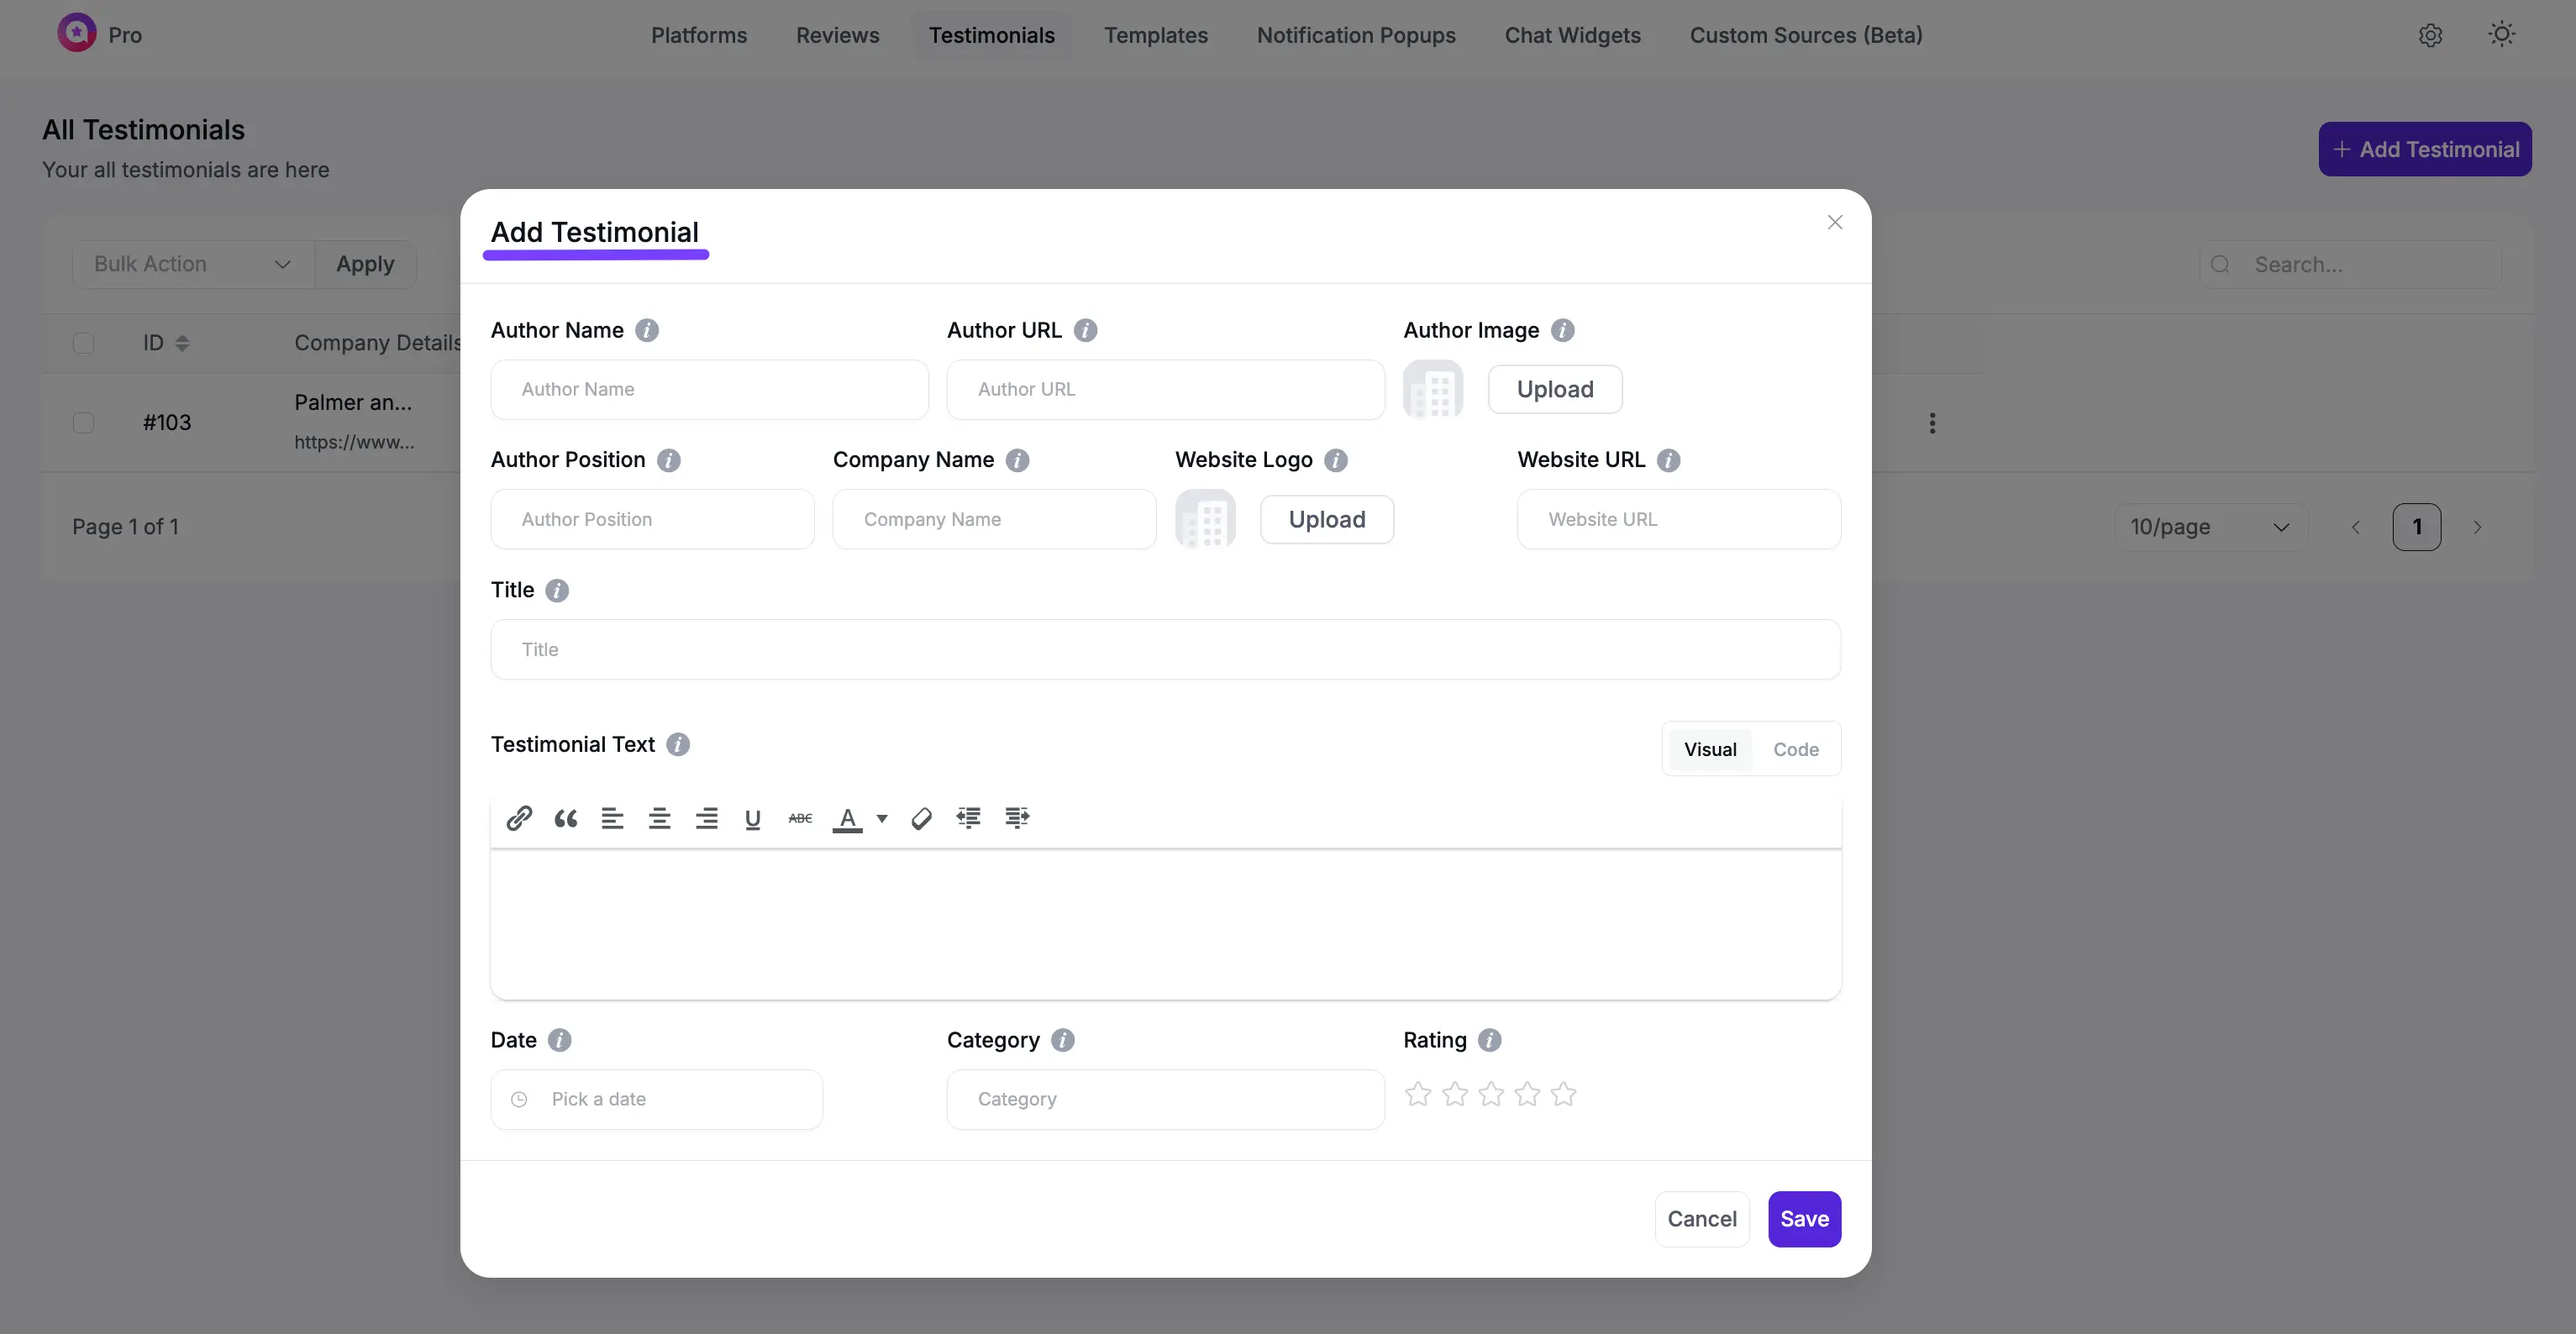
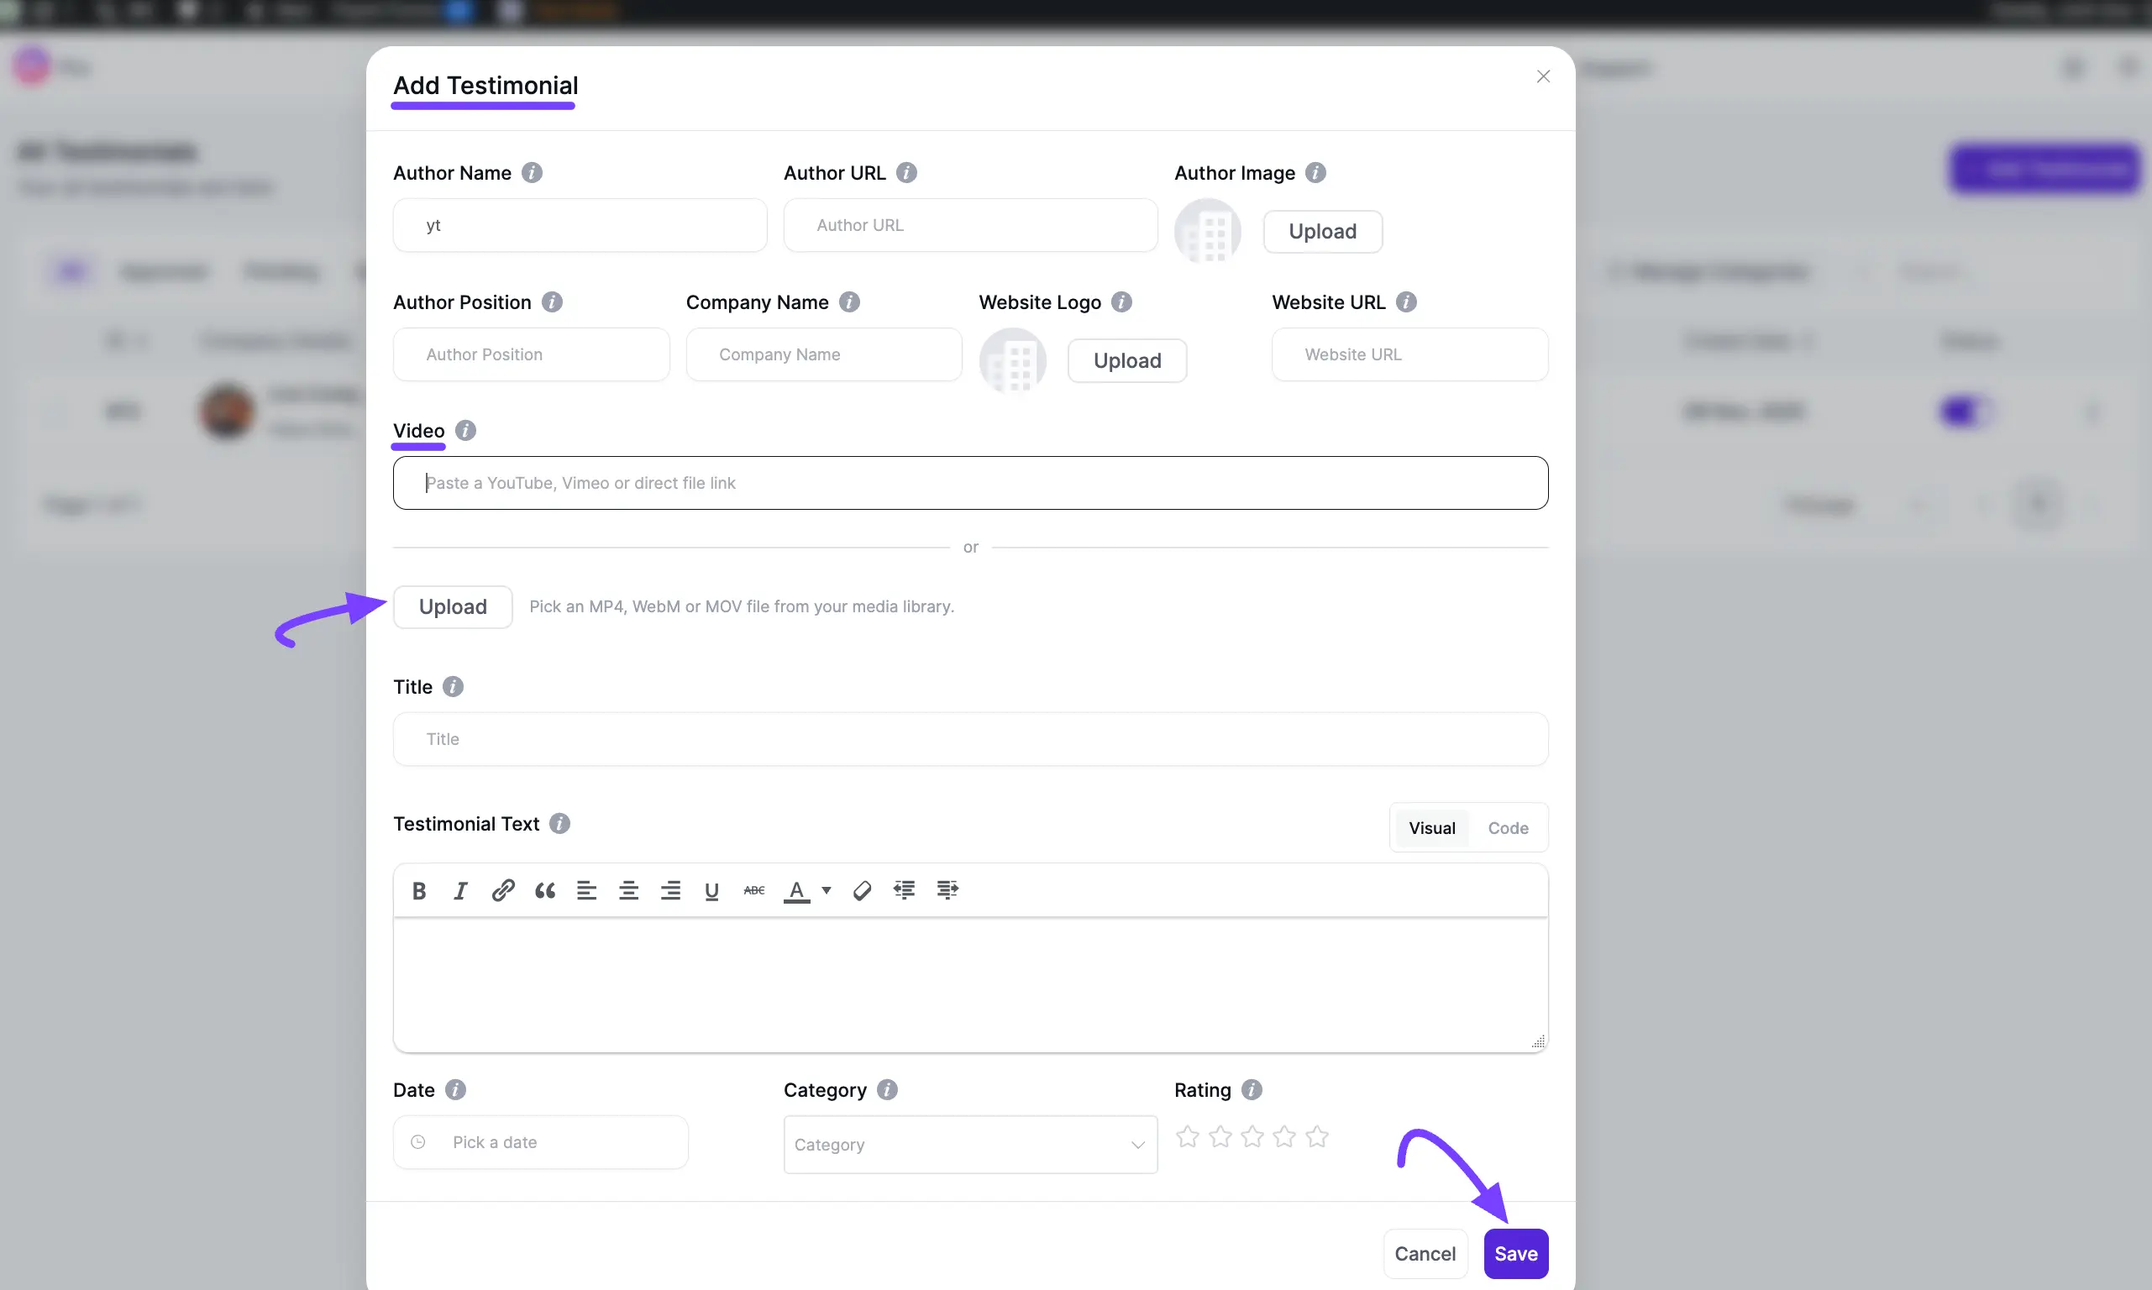
update How to Add and Display Testimonials doc

diff --git a/guide/advanced-features/add-testimonials.md b/guide/advanced-features/add-testimonials.md
@@ -11,9 +11,9 @@ Unlike the [Business reviews](../business-reviews/) (like [Google](../business-r
 
 This guide will walk you through the entire process, from adding your first testimonial to designing a beautiful template to display it.
 
-::: tip Collect testimonials automatically
-You do not have to type every testimonial in by hand. A [native review form](/guide/business-reviews/native-review-forms) can be set to collect testimonials directly from your customers, including their job title, company and company logo.
-:::
+> [!Note]
+> You do not have to type every testimonial in by hand. A [native review form](/guide/business-reviews/native-review-forms) can be set to collect testimonials directly from your customers, including their job title, company and company logo.
+
 
 ## Part 1: How to Add a New Testimonial
 
@@ -49,7 +49,6 @@ Here is a breakdown of each field:
 * **Date:** Select the date you received the testimonial.
 * **Category:** This is a very useful organizing tool. You can create categories (like "Service Reviews," "Product Feedback," etc.) to group your testimonials. This allows you to create templates that only show testimonials from a specific category. See [Organize Reviews with Categories](/guide/business-reviews/organize-reviews-with-categories) for bulk tagging.
 
-![Testimonials](/guide/public/images/advanced-features/how-to-add-testimonials-with-wp-social-ninja/testimonials-2.webp)
 
 ### Adding a Video Testimonial
 
@@ -58,26 +57,26 @@ A written testimonial is good social proof. A customer saying the same thing on 
 In the **Video** field you can either:
 
 - **Paste a link** to a YouTube or Vimeo video, or a direct link to a video file.
-- **Upload a video** from your WordPress media library using the **Upload** button.
-
-<!-- TODO: Capture this screenshot and save it at /guide/public/images/advanced-features/how-to-add-testimonials-with-wp-social-ninja/video-fields.webp
-     then delete these comment markers to publish the image.
-![The Video and Video Thumbnail fields in the testimonial editor](/guide/public/images/advanced-features/how-to-add-testimonials-with-wp-social-ninja/video-fields.webp)
--->
+- **Upload a video** from your WordPress media library using the **Upload** button. It accepts **MP4**, **WebM**, or **MOV** files.
 
 **About the Video Thumbnail.** If you uploaded a video file, also set a **Video Thumbnail** — this is the image visitors see before they press play. Without one, an uploaded video appears as a black box on your page.
 
 You will only see the Video Thumbnail field when it is needed. YouTube and Vimeo links already carry their own thumbnail, so the field is hidden for those.
 
-::: tip
-Paste the full address including `https://`. A link without it is rejected when you save.
-:::
+> [!Note]
+> Paste the full address including `https://`. A link without it is rejected when you save.
+
+![The Video field in the Add Testimonial](/guide/public/images/advanced-features/how-to-add-testimonials-with-wp-social-ninja/testimonials-2.webp)
 
 ### Step 4: Save and Manage Your Testimonials
 
 Click the **Save Testimonial** button. Your testimonial is now saved!
 
 You will be returned to the "All Testimonials" dashboard, where you will see your new entry in a list. From here, you can click the **Edit** or **Delete** buttons to manage your testimonials at any time.
+
+
+![Edit or Delete](/guide/public/images/advanced-features/how-to-add-testimonials-with-wp-social-ninja/video-testimonial-4.webp)
+
 
 ## Part 2: Customizing Your Testimonial Template (General Settings)
 
